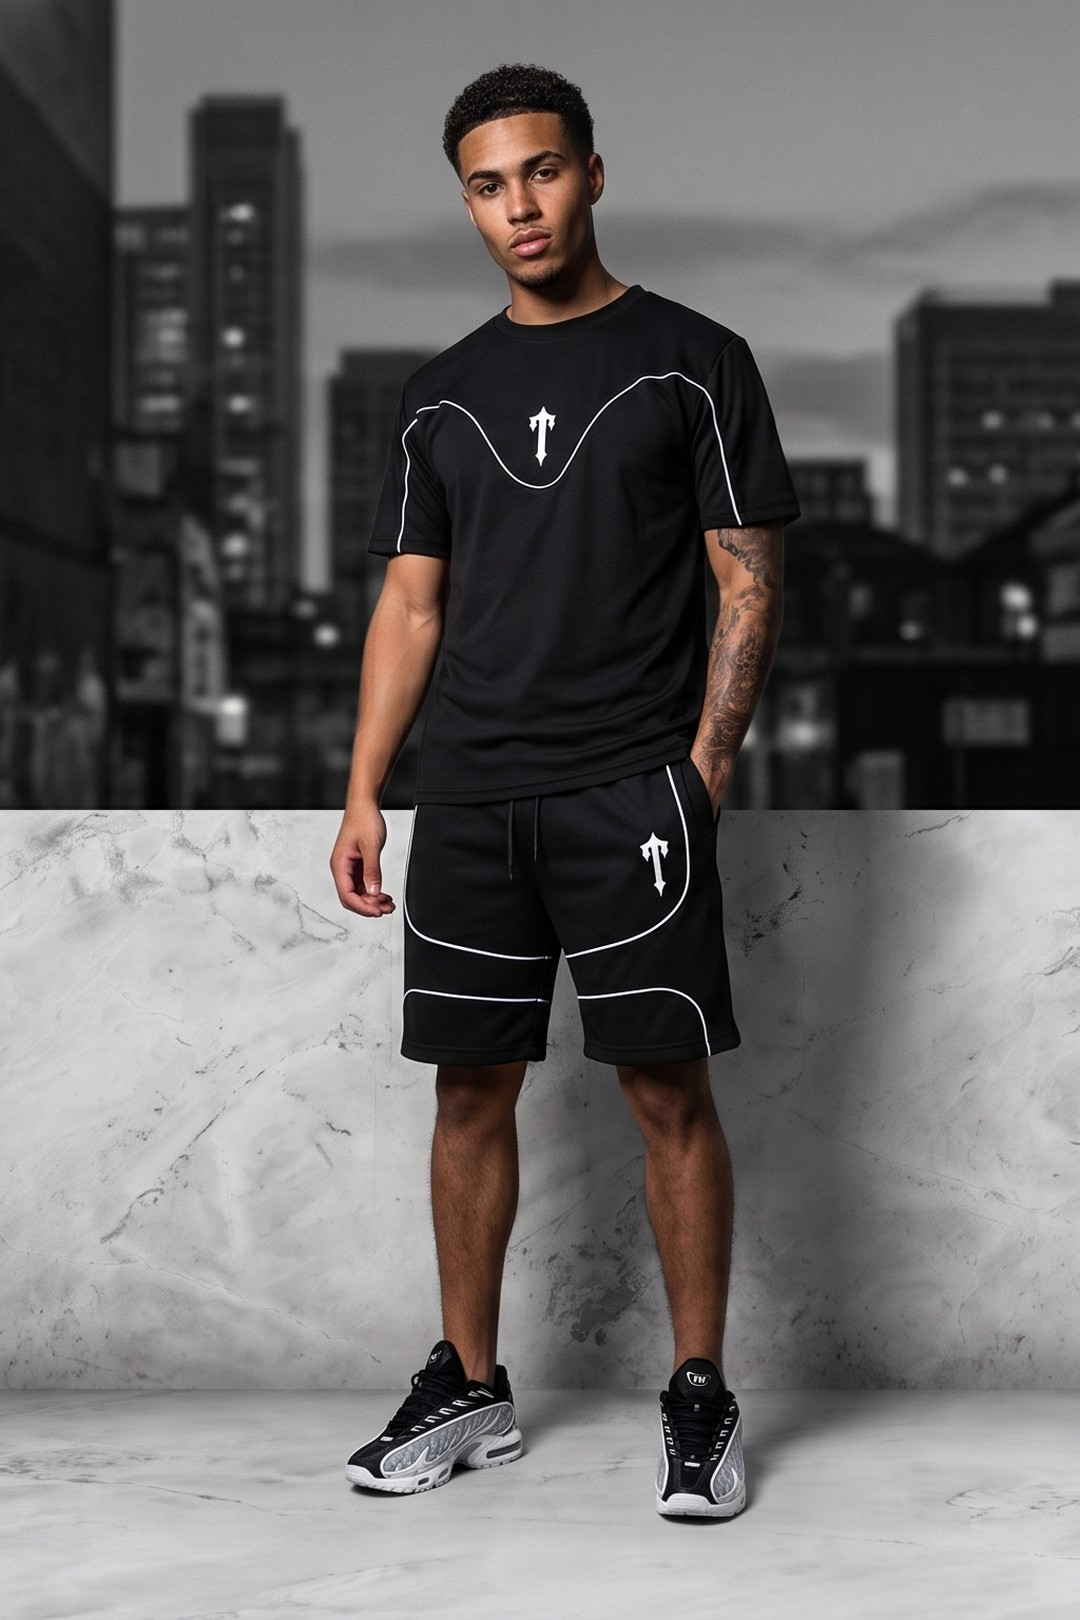
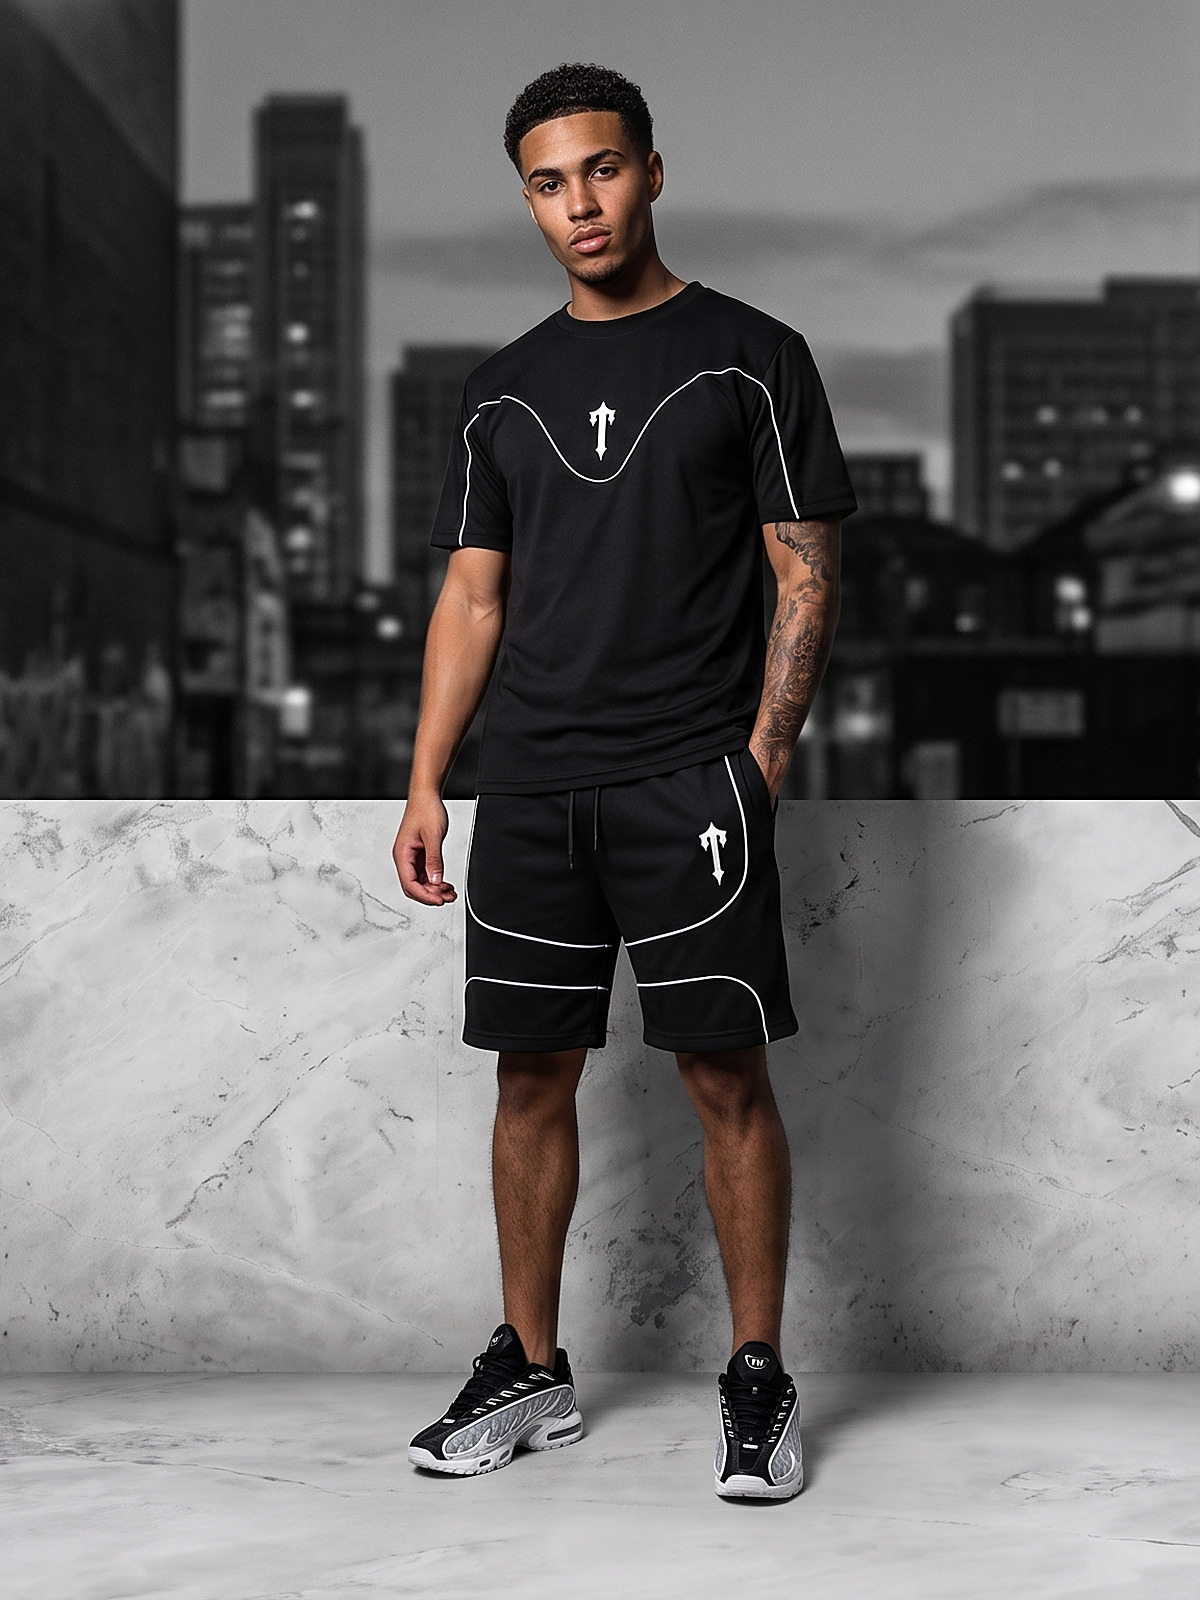
Mejora el encuadre de los heroes en móvil.
Recortes 3:4 a mayor resolución y object-position centrado para no cortar sujetos.

diff --git a/src/components/HeroSlider.tsx b/src/components/HeroSlider.tsx
@@ -31,24 +31,26 @@ export function HeroSlider() {
           transition={{ duration: 0.7, ease: "easeOut" }}
           className="absolute inset-0"
         >
-          {/* Art direction: retrato en móvil, banner apaisado en desktop */}
+          {/* Art direction: retrato centrado en móvil, banner apaisado en desktop */}
           <Image
             src={slide.imageMobile}
             alt=""
             fill
             priority={index === 0}
-            className="object-cover object-top sm:hidden"
+            quality={92}
+            className="object-cover sm:hidden"
             style={{ objectPosition: slide.focusMobile }}
-            sizes="100vw"
+            sizes="(max-width: 640px) 100vw, 0px"
           />
           <Image
             src={slide.image}
             alt=""
             fill
             priority={index === 0}
+            quality={90}
             className="hidden object-cover sm:block"
             style={{ objectPosition: slide.focusDesktop }}
-            sizes="100vw"
+            sizes="(min-width: 640px) 100vw, 0px"
           />
           <div className="absolute inset-0 bg-gradient-to-t from-black via-black/35 to-black/15 sm:from-black/90 sm:via-black/10 sm:to-transparent" />
           <div className="absolute inset-x-0 bottom-0 h-[48%] bg-gradient-to-t from-black via-black/75 to-transparent sm:h-1/3 sm:via-transparent" />

diff --git a/src/data/catalog.ts b/src/data/catalog.ts
@@ -120,7 +120,7 @@ export const heroes = [
     secondary: "Novedades",
     image: "/img/real/banner-noche.jpg",
     imageMobile: "/img/real/mobile/hero-noche-m.jpg",
-    focusMobile: "center 28%",
+    focusMobile: "50% 35%",
     focusDesktop: "center center",
   },
   {
@@ -132,7 +132,7 @@ export const heroes = [
     secondary: "Novedades",
     image: "/img/real/banner-callejon.jpg",
     imageMobile: "/img/real/mobile/hero-callejon-m.jpg",
-    focusMobile: "center 22%",
+    focusMobile: "50% 28%",
     focusDesktop: "center 30%",
   },
   {
@@ -144,7 +144,7 @@ export const heroes = [
     secondary: "Novedades",
     image: "/img/real/banner-tunel.jpg",
     imageMobile: "/img/real/mobile/hero-tunel-m.jpg",
-    focusMobile: "center 40%",
+    focusMobile: "50% 42%",
     focusDesktop: "center 28%",
   },
 ];
